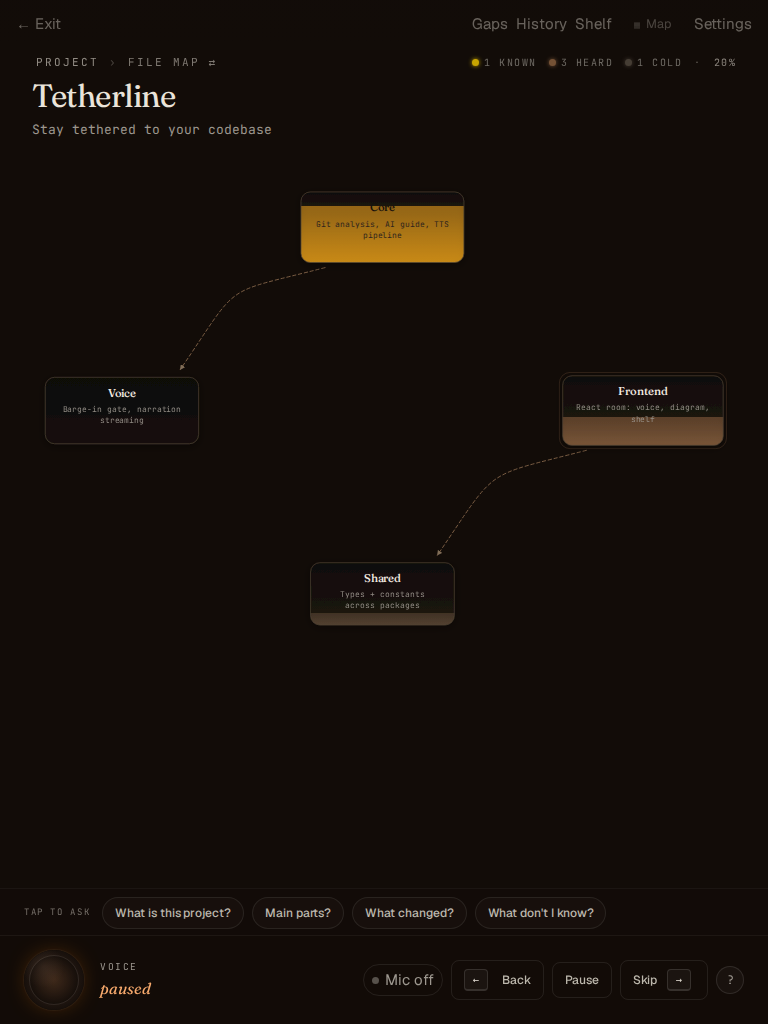
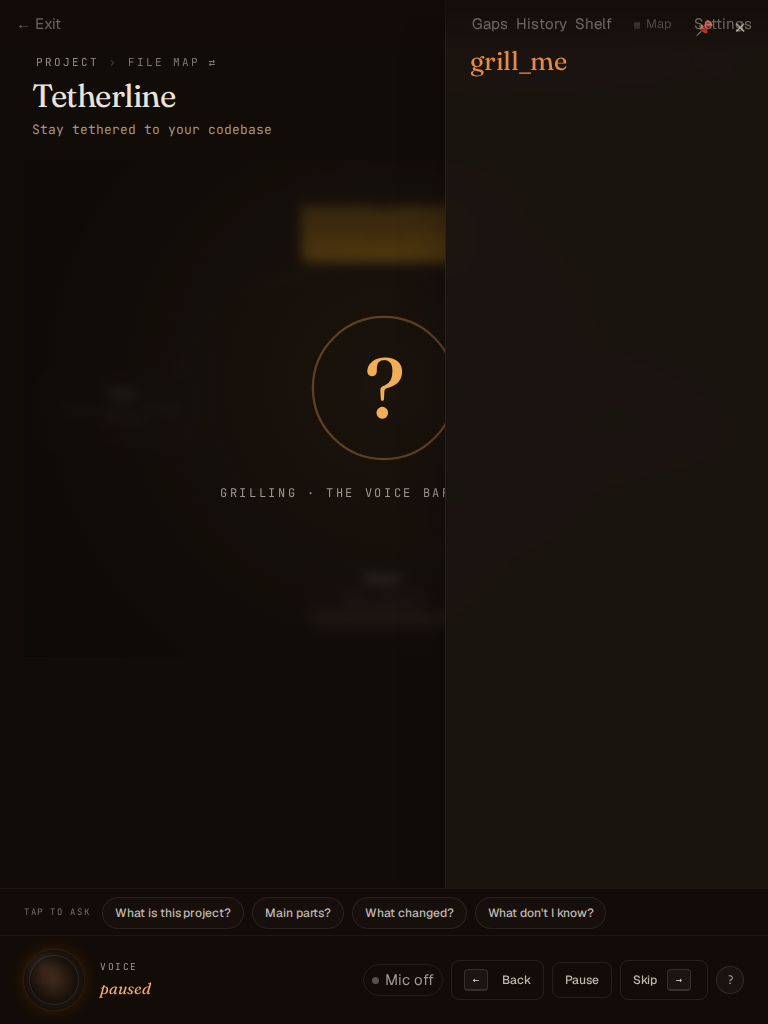
H5 root-cause: SceneHost re-seeds after mount (skillResult was wiped)
Systemic bug found by instrumenting the live store: every skillResult-
driven scene (grill-screen, concern-tint, heatmap-overlay) rendered
the plain diagram because Room's mount-time passive effects cleared
the seeded skillResult (seedBase's phase/payload survived; skillResult
didn't). Fix: SceneHost re-asserts the scene seed in a parent
useEffect — parent passive effects run AFTER all child passive effects
(bottom-up), so the scene fixture is the deterministic final word.
Kept the useState pre-seed for a correct first paint. Added a
DEV-only window.__sceneStore diagnostic (how this was root-caused).
Verified: grill-screen now renders the `?` quiz screen. typecheck
4/4, scenes 21/21. (Newly-exposed grill polish: raw "grill_me" text
leak + `?` overlay coverage — next cycles.)

diff --git a/packages/frontend/src/scenes/SceneHost.tsx b/packages/frontend/src/scenes/SceneHost.tsx
@@ -5,11 +5,12 @@
  * so a scene needs no backend and can never hang on a WS. Seeds
  * synchronously before first paint via a useState initializer.
  */
-import { useState } from 'react';
+import { useState, useEffect } from 'react';
 import { AppShell } from '../components/layout/AppShell.js';
 import { Room } from '../components/room/Room.js';
 import { SettingsPanel } from '../components/settings/SettingsPanel.js';
 import { SCENES, getScene } from './registry.js';
+import { useSessionStore } from '../state/session-store.js';
 
 function sceneParam(): string | null {
   return new URLSearchParams(window.location.search).get('scene');
@@ -44,11 +45,25 @@ function SceneIndex() {
 
 export function SceneHost() {
   const name = sceneParam();
-  // Seed exactly once, synchronously, before children render.
+  // Seed before first paint so the first render is correct (payload
+  // present → no /api fetch, right phase).
   useState(() => {
     if (name && name !== 'index') getScene(name)?.seed();
     return true;
   });
+  // Re-assert AFTER children mount. Room's mount hooks (orchestrator)
+  // clear skill-derived state (skillResult) in a passive useEffect on
+  // fresh mount, wiping the scene's seed. Parent passive effects run
+  // AFTER all child passive effects (bottom-up), so this is the final
+  // word — the scene fixture is the source of truth. Deterministic.
+  useEffect(() => {
+    if (name && name !== 'index') getScene(name)?.seed();
+  }, [name]);
+  // DEV diagnostic surface: lets the scene harness read the live
+  // store from Playwright (window.__sceneStore.getState()).
+  if (import.meta.env.DEV) {
+    (window as unknown as { __sceneStore?: unknown }).__sceneStore = useSessionStore;
+  }
 
   if (!name || name === 'index') {
     return (
